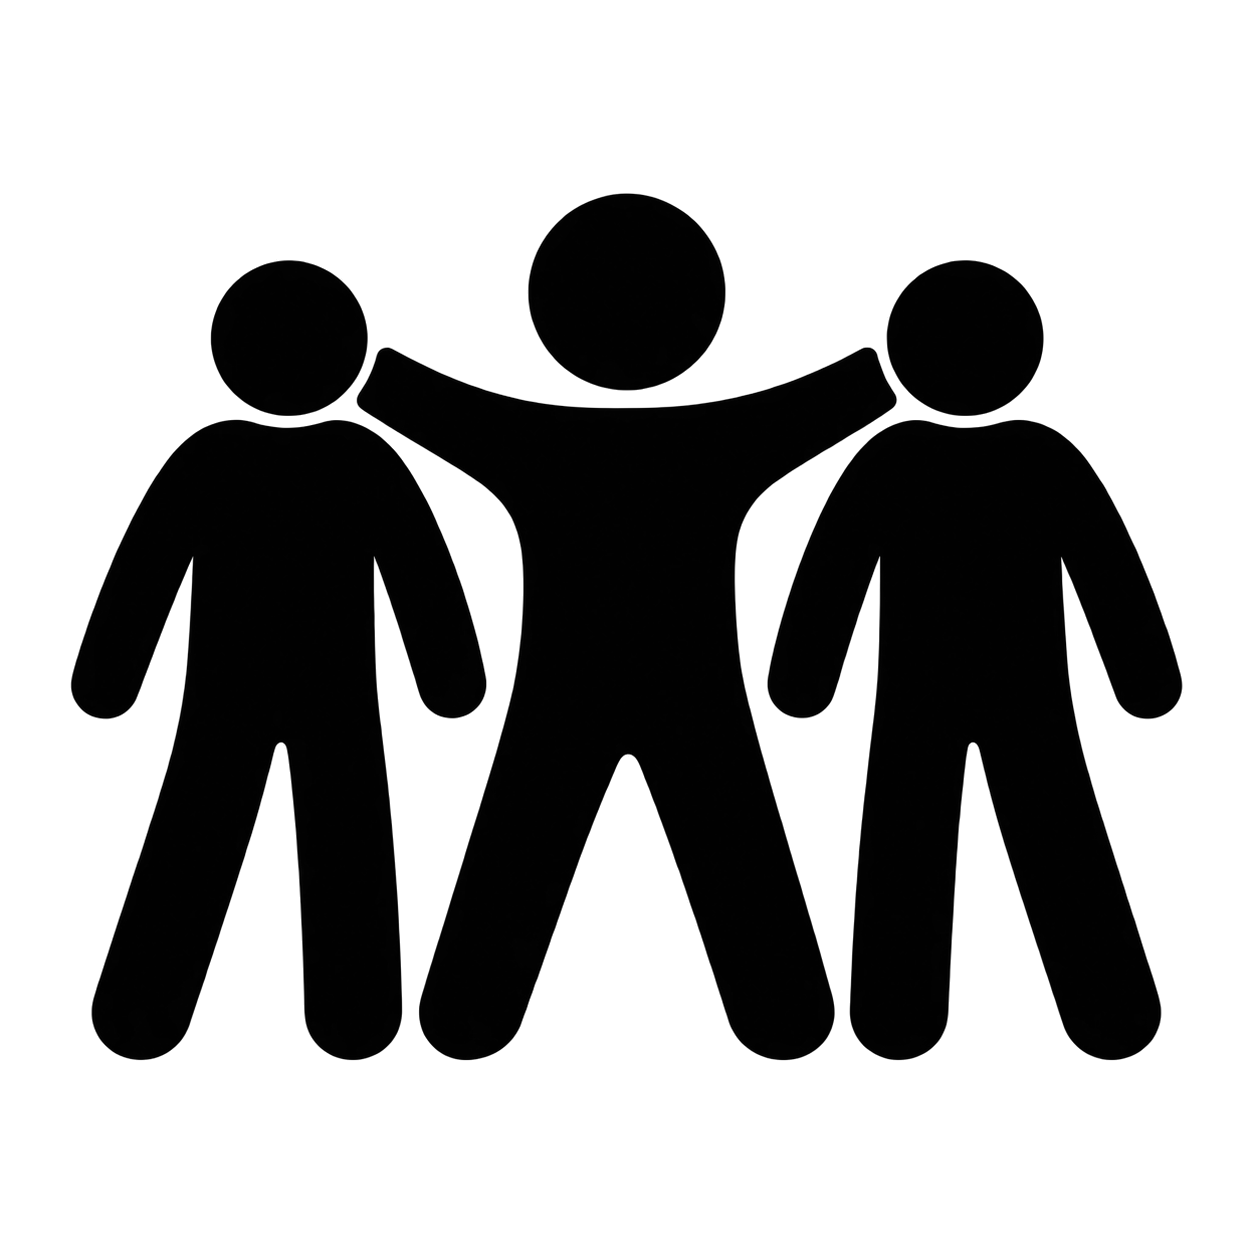
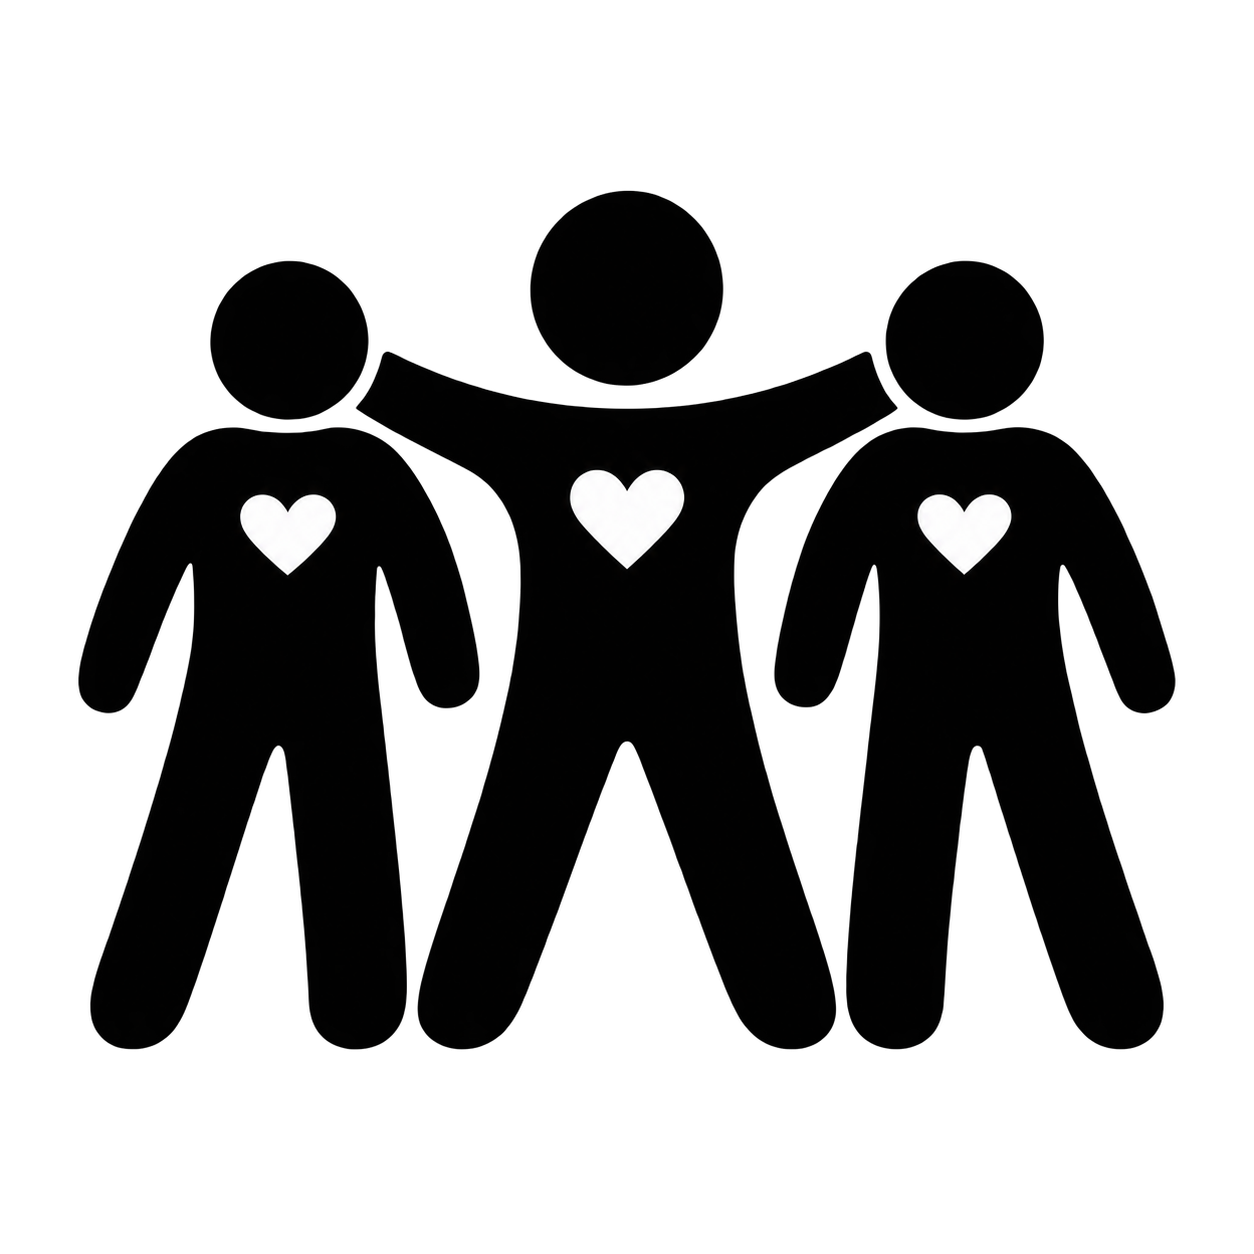
Change section 05

diff --git a/index_new_old.html b/index_new_old.html
@@ -214,25 +214,33 @@ b{font-weight:700}
 .s4-cards .d{font-size:clamp(11.5px,1.7vw,13.5px);line-height:1.45;color:var(--text-2);margin-top:6px}
 @media (max-width:600px){.capex .foot{display:none}}
 
-/* ---------- 05 value stack ---------- */
-.stack{display:grid;grid-template-columns:minmax(0,1fr) 34px;grid-template-rows:auto auto auto;column-gap:14px;row-gap:10px;max-width:860px;margin:0 auto}
-.layer{grid-column:1;display:grid;grid-template-columns:minmax(0,1.05fr) minmax(0,1fr);gap:16px 24px;align-items:center;border-radius:var(--radius);padding:clamp(14px,2vw,20px) clamp(16px,2.6vw,24px);border:1px solid var(--border);background:var(--surface);box-shadow:var(--shadow-sm)}
-.layer.l1{background:var(--accent-surface);border-color:var(--accent-border)}
-.layer.l2{border-left:3px solid var(--accent)}
-.layer.l3{background:var(--bg-sunken);border-style:dashed;box-shadow:none}
-.layer .ln{font-weight:700;font-size:clamp(17px,2vw,20px);line-height:1.2}
-.layer.l1 .ln{color:var(--accent)}
-.layer .ld{font-size:clamp(13px,1.3vw,14px);color:var(--text-2);margin-top:3px}
-.layer .lf{display:flex;flex-direction:column;gap:2px}
-.layer .lf b{font-size:clamp(15px,1.7vw,18px);line-height:1.25;font-feature-settings:'tnum' 1}
-.layer .lf span{font-size:clamp(12.5px,1.3vw,14px);color:var(--text-muted)}
-.layer.l3 .ln,.layer.l3 .lf b{color:var(--text-2)}
-.bracket{grid-column:2;grid-row:1/3;position:relative;border:1.5px solid var(--accent);border-left:none;border-radius:0 6px 6px 0;margin:6px 0;width:12px;justify-self:start}
-.bracket span{position:absolute;left:18px;top:50%;transform:translateY(-50%) rotate(180deg);writing-mode:vertical-rl;white-space:nowrap;font-size:11px;letter-spacing:.08em;text-transform:uppercase;font-weight:700;color:var(--accent)}
-@media (max-width:600px){
-  .stack{grid-template-columns:minmax(0,1fr) 26px;column-gap:8px}
-  .layer{grid-template-columns:1fr;gap:8px;padding:12px 14px}
-  .bracket span{left:14px;font-size:10px}
+/* ---------- 05 moats ---------- */
+.s5{position:relative;max-width:940px;margin:0 auto;overflow:hidden;padding:8px 0}
+.s5-rays,.s5-glow{position:absolute;left:50%;top:50%;transform:translate(-50%,-50%);pointer-events:none;z-index:0;aspect-ratio:1}
+.s5-rays{height:150%;background:repeating-conic-gradient(from 4deg at 50% 50%,var(--accent) 0deg 1.1deg,transparent 1.1deg 13deg);-webkit-mask-image:radial-gradient(circle at 50% 50%,rgba(0,0,0,.85) 0%,rgba(0,0,0,.5) 28%,rgba(0,0,0,.12) 52%,transparent 70%);mask-image:radial-gradient(circle at 50% 50%,rgba(0,0,0,.85) 0%,rgba(0,0,0,.5) 28%,rgba(0,0,0,.12) 52%,transparent 70%);opacity:.22}
+.s5-glow{height:80%;background:radial-gradient(circle,color-mix(in oklab,var(--accent) 22%,transparent) 0%,transparent 68%)}
+.s5-grid{position:relative;z-index:1;display:grid;gap:clamp(10px,1.5vw,14px);grid-template-areas:"control control control" "people hub models" "data data data";grid-template-columns:1fr 1.1fr 1fr;align-items:center}
+.lay{display:flex;flex-direction:column;gap:8px}
+.lay .k{font-size:11px;letter-spacing:.08em;text-transform:uppercase;color:var(--accent);font-weight:700}
+.lay.c .k{text-align:center}
+.chips{display:flex;gap:8px}
+.chips.col{flex-direction:column}
+.chip{flex:1 1 0;min-width:0;overflow-wrap:anywhere;background:var(--surface);border:1px solid var(--border);border-radius:var(--radius);padding:clamp(7px,1vw,10px) clamp(8px,1.2vw,14px);box-shadow:var(--shadow-sm);font-size:clamp(12px,1.4vw,14px);text-align:center;transition:border-color .2s}
+.chip:hover{border-color:var(--accent)}
+.hubbox{grid-area:hub;display:flex;justify-content:center}
+.hubbox div{background:var(--accent-surface);border:1px solid var(--accent-border);border-radius:var(--radius);padding:clamp(10px,1.5vw,16px) clamp(14px,2vw,22px);box-shadow:var(--shadow-md);font-weight:700;font-size:clamp(14px,1.8vw,18px);color:var(--accent)}
+@media (max-width:640px){
+  .s5-grid{gap:8px;grid-template-columns:1fr auto 1fr}
+  .lay{gap:6px}
+  .lay .k{font-size:9.5px;letter-spacing:.05em;text-align:center;line-height:1.2}
+  .chips{gap:6px}
+  .chip{font-size:11.5px;padding:7px 5px;line-height:1.25;border-radius:3px}
+  .hubbox div{font-size:12.5px;padding:10px 8px;letter-spacing:-0.01em}
+  .s5-rays{height:120%}
+}
+@media (max-width:380px){
+  .chip{font-size:11px;padding:6px 3px}
+  .hubbox div{font-size:12px;padding:8px 6px}
 }
 
 /* ---------- progress + about ---------- */
@@ -274,7 +282,7 @@ b{font-weight:700}
 <section class="band" data-theme="light" id="s1">
   <div class="wrap">
     <div class="kicker"><span class="num">01</span><span class="rule"></span><span class="lbl">Europe 65+ at a glance</span></div>
-    <h2 class="h2">81 million Europeans are over 65, 96 million by 2036.</h2>
+    <h2 class="h2">81 million Europeans are over 65, 96 million by 2036. Massive, growing, inevitable.</h2>
 
     <div class="s1-fig">
       <img class="s1-map" src="img/europe-map.png" alt="" aria-hidden="true">
@@ -453,7 +461,7 @@ b{font-weight:700}
       </div>
       <div class="s4-cards">
         <div class="acc"><div class="n">$1,300bn</div><div class="d">invested in 3 years by 5 companies alone</div></div>
-        <div><div class="n">−99%</div><div class="d">cost per task in 2 years, at constant quality</div></div>
+        <div><div class="n">$581bn</div><div class="d">global corporate AI investment 2025, 2.3x vs. previous year, accelerating</div></div>
       </div>
     </div>
 
@@ -462,7 +470,7 @@ b{font-weight:700}
       <div><p><b>Unit economics constantly improve.</b> A heavy user costs ~€2/month, leaving room for fair pricing at healthy margins.</p></div>
       <div><p><b>Owning the user is key.</b> Models converge; relationship, data and margins compound.</p></div>
     </div>
-    <p class="src">Source: company guidance (Futurum compilation, 2026E $660–690bn); Stanford AI Index 2025 (inference cost, GPT-3.5-level output, Nov 2022 – Oct 2024); Epoch AI. 2024 figure from company reports, approximate.</p>
+    <p class="src">Source: company guidance (Futurum compilation, 2026E $660–690bn); Stanford AI Index 2025/2026; Epoch AI. 2024 figure from company reports, approximate.</p>
   </div>
 </section>
 
@@ -472,28 +480,23 @@ b{font-weight:700}
     <div class="kicker"><span class="num">05</span><span class="rule"></span><span class="lbl">Compounding moats</span></div>
     <h2 class="h2">Engagement, orchestration, memory and EU compliance compound into long-term value.</h2>
 
-    <div class="stack">
-      <div class="layer l1">
-        <div class="lt"><div class="ln">Relationship</div><div class="ld">memory, tone, pace, consent</div></div>
-        <div class="lf"><b>Grows with every conversation</b><span>context no competitor has</span></div>
+    <div class="s5">
+      <div class="s5-rays" aria-hidden="true"></div><div class="s5-glow" aria-hidden="true"></div>
+      <div class="s5-grid">
+        <div class="lay c" style="grid-area:control"><div class="k">Policy layer</div><div class="chips"><div class="chip">Guardrails</div><div class="chip">Billing</div><div class="chip">EU GDPR</div></div></div>
+        <div class="lay" style="grid-area:people"><div class="k">Engagement</div><div class="chips col"><div class="chip">Individual</div><div class="chip">Family</div><div class="chip">Friends</div></div></div>
+        <div class="hubbox"><div>Orchestration</div></div>
+        <div class="lay" style="grid-area:models"><div class="k">AI optimization</div><div class="chips col"><div class="chip">Frontier reasoning</div><div class="chip">General conversation</div><div class="chip">Small &amp; on-device</div></div></div>
+        <div class="lay c" style="grid-area:data"><div class="k">Context layer</div><div class="chips"><div class="chip">Memory</div><div class="chip">Contents</div><div class="chip">Services</div></div></div>
       </div>
-      <div class="layer l2">
-        <div class="lt"><div class="ln">Orchestration</div><div class="ld">right model per task, EU rules built in</div></div>
-        <div class="lf"><b>Cost index 100 / 10 / 1</b><span>frontier / general / on-device</span></div>
-      </div>
-      <div class="layer l3">
-        <div class="lt"><div class="ln">Models</div><div class="ld">interchangeable suppliers</div></div>
-        <div class="lf"><b>−99% price per task in 2 years</b><span>every upgrade available on day one</span></div>
-      </div>
-      <div class="bracket" aria-hidden="true"><span>Value accrues here</span></div>
     </div>
 
     <div class="takeaways">
-      <div><p><b>Models are a commodity.</b> Price per task −99% in 2 years; suppliers compete for the app layer.</p></div>
-      <div><p><b>Orchestration sets the margin.</b> Cost index 100 / 10 / 1 by tier keeps a heavy user at ~€2/month.</p></div>
-      <div><p><b>Memory compounds.</b> Each conversation adds context the next provider does not have; consent under GDPR and the AI Act sits inside the product.</p></div>
+      <div><p><b>UX wins on features.</b> Tone, pace and continuity, tailored contents, simple interface, etc.</p></div>
+      <div><p><b>Orchestration is key.</b> Optimizes quality, costs, use best-of-breed tools, minimize provider lock-in and downtime.</p></div>
+      <div><p><b>Every conversation compounds.</b> The service gets more personal each day – and harder to replace.</p></div>
     </div>
-    <p class="src">Source: public API price lists (Sep 2026), cost index indicative; Stanford AI Index 2025 (inference cost); GDPR; EU AI Act (Reg. 2024/1689).</p>
+    <p class="src">Source: Cost index indicative, public API price lists (Sep 2026); EU AI Act (Reg. 2024/1689).</p>
   </div>
 </section>
 
@@ -501,8 +504,7 @@ b{font-weight:700}
 <section class="band progress" id="progress">
   <div class="wrap">
     <h2>Progress</h2>
-    <p>Concept defined.<br>The work now is market validation, segmentation, distribution and go-to-market.</p>
-    <p>Happy to compare notes with founders and builders in consumer AI, operators who already serve the over-65s, and investors who follow the space. <a href="mailto:egiorgetti@egnt.ai">Write to me</a></p>
+    <p>Investment thesis is stronger by the day, concept definition well advanced.<br>Current focus is on market validation, segmentation, distribution, go-to-market.<br>Interested in knowing more? <a href="mailto:egiorgetti@egnt.ai">Get in touch.</a></p>
   </div>
 </section>
 
@@ -518,8 +520,7 @@ b{font-weight:700}
   </div>
   <div class="body">
     <p>Spent 30+ years building digital-first products — FinecoBank, ePRICE, Nexi YAP — and scaling them into businesses that served millions of customers and reached hundreds of millions in annual revenues. <a href="https://www.linkedin.com/in/egiorgetti" target="_blank" rel="noopener">More on LinkedIn</a></p>
-    <p>Each of them brought a bank, a store or a payment card to customers who had never used one online. The over-65s are the same adoption problem.</p>
-    <p>Now working alongside founders building AI-native products, combining their vision, skills and speed with my experience, hands-on work and capital. <a href="mailto:egiorgetti@egnt.ai">Write to me</a></p>
+    <p>Now working alongside founders building AI-native products, combining their vision, skills and speed with my experience, hands-on work and capital. <a href="mailto:egiorgetti@egnt.ai">Let's get in touch.</a></p>
     <p>EGNT is my trademark, not yet a company.</p>
   </div>
 </div>
